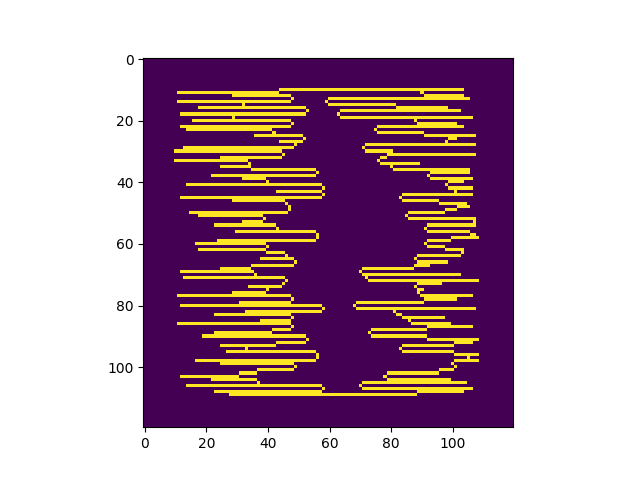
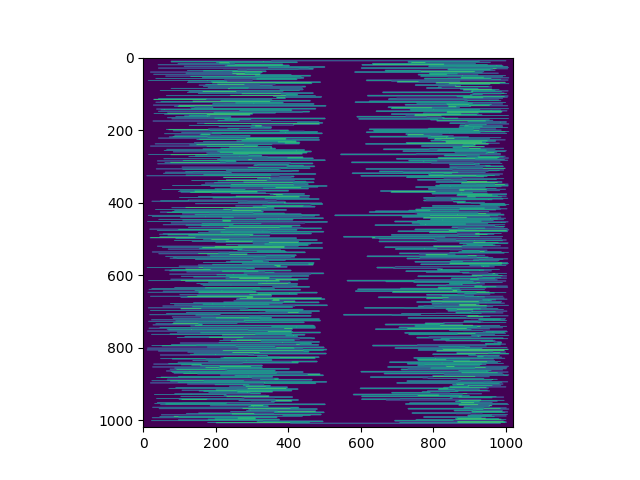
sdadsad

diff --git a/stats.py b/stats.py
@@ -8,34 +8,42 @@ def stats(img,contour_x, contour_y):
     areas = []
     circ = []
     filter_size = 5
-
     for sigma in sigmas:
         
         filled_img = img.copy()
+        img_contour_smoothed = 0
         smoothed_contour_x = gaussian_smooth_1d(contour_x, filter_size, sigma).astype(int)
         smoothed_contour_y = gaussian_smooth_1d(contour_y, filter_size, sigma).astype(int)
 
         contour_smoothed_values = [(x, y) for x, y in zip(smoothed_contour_x, smoothed_contour_y)]
         img_contour_smoothed = np.zeros(img.shape)
+        
         for value in contour_smoothed_values:
             row, col = value
             img_contour_smoothed[row, col] = 1
 
+        plt.plot(smoothed_contour_y,smoothed_contour_x)
+        plt.show()
+        plt.imshow(img_contour_smoothed)
+        plt.show()
+        
         perimetro = len(smoothed_contour_x)
         perimetros.append(perimetro)
-
-        for row in range(0,img.shape[1]):
+        for row in range(0,img.shape[0]):
             col = 0
-            while col < img.shape[0]:
-                if(img[row,col]==1):
+            # if (np.sum(np.array(filled_img[row]) == 1)%2) != 0:
+            #     print(filled_img[row])
+            #     continue
+            while col < filled_img.shape[1]:
+                if(col < filled_img.shape[1]) and (filled_img[row,col]==1):
+                    print('começar a pintar '+str(row)+','+str(col) )
                     col += 1
-                    while col < img.shape[0] and img[row,col]==0:
+                    while col < filled_img.shape[1] and filled_img[row,col]==0:
+                        print(row,col)
                         filled_img[row,col] = 1
                         col += 1
                 col += 1
             
-        plt.imshow(filled_img)
-        plt.show()
     
         area = np.sum(np.array(filled_img) == 1)
         areas.append(area)

diff --git a/main.py b/main.py
@@ -35,7 +35,7 @@ plt.imshow(img_contour)
 plt.savefig(f"images/contour/{fig_type}_contour.png")
 
 # Apply gaussian smoothing
-filter_size = 5
+filter_size = 10
 sigma = 2
 
 smoothed_contour_x = gaussian_smooth_1d(contour_x, filter_size, sigma).astype(int)
@@ -47,10 +47,10 @@ for value in contour_smoothed_values:
     row, col = value
     img_contour_smoothed[row, col] = 1
 
-# plt.plot(smoothed_contour_x, img.shape[1]-smoothed_contour_y)
-
+plt.plot(smoothed_contour_y,smoothed_contour_x,)
 plt.imshow(img_contour_smoothed)
-#plt.show()
+
 plt.savefig(f"images/smoothed/{fig_type}_smoothed.png")
+plt.show()
 
 stats(img_contour,contour_x, contour_y)

diff --git a/objects.py b/objects.py
@@ -93,7 +93,7 @@ def random():
     Creates a pseudo-random figure with possible exotic contour.
     '''
 
-    random_figure = np.zeros((100, 100))
+    random_figure = np.zeros((1000, 1000))
 
     for row in range(random_figure.shape[0]):
         random_start = np.random.randint((random_figure.shape[1] // 2) - 1)
